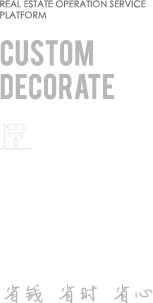
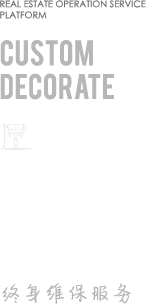
定制流程 定制流程

diff --git a/css/main.css b/css/main.css
@@ -1,1 +1,1 @@
-.main-width{width:1200px;min-width:1200px;margin-left:auto;margin-right:auto}.ellipse{overflow:hidden;white-space:nowrap;text-overflow:ellipsis}input,button{font-size:14px}button{cursor:pointer}.select{width:100%;height:45px;position:relative;font-size:14px}.select .form-control{width:100%;height:45px;line-height:45px;border-radius:3px;-webkit-border-radius:3px;-moz-border-radius:3px;color:#7f85a3;padding:0 40px 0 12px;box-shadow:inset 0 1px 3px 0 rgba(127,133,163,0.53);-webkit-box-shadow:inset 0 1px 3px 0 rgba(127,133,163,0.53);-moz-box-shadow:inset 0 1px 3px 0 rgba(127,133,163,0.53);background:#eff2f9;background:url("../images/icon/select_ico.png") right 20px center no-repeat,-webkit-gradient(linear, left top, left bottom, from(#eff2f9), to(#dbe0ed));background:url("../images/icon/select_ico.png") right 20px center no-repeat,linear-gradient(to bottom, #eff2f9, #dbe0ed)}.select .select-box{position:relative;width:100%}.select .select-box ul{background:#fff;display:none;border-bottom:1px solid #c3c9d8}.select .select-box ul li{width:100%;height:auto;line-height:20px;border-top:1px solid #c3c9d8;color:#7f85a3;padding:10px 12px;cursor:pointer}.select .select-box ul li:hover{background:#eff2f9;color:#7f85a3;border-top-color:#c3c9d8}.select .select-box:hover ul{display:block}.map-wrap{width:1200px;min-width:1200px;margin-left:auto;margin-right:auto;margin-top:78px;padding-left:40px;display:block}.map-wrap .map-box{text-align:center;float:left;font-size:16px;margin-right:75px}.map-wrap .map-box .img{width:120px;height:120px}.map-wrap .map-box .title1{margin-top:20px;color:#2b314d}.map-wrap .map-box .title2{color:#c3c9d8;margin-top:5px;font-size:12px}.map-wrap .map4{width:335px;height:202px;line-height:202px;border:1px solid #c3c9d8;text-align:center}.map-wrap .map4 .img{width:305px;height:172px}.title-wrap{text-align:center;margin-top:80px;width:1200px;min-width:1200px;margin-left:auto;margin-right:auto}.title-wrap .hr-line{width:452px;height:3px;border-top:solid 1px #c3cad8;margin-top:31px}.title-wrap .tit{width:294px}.title-wrap .tit .title{font-size:30px;color:#2b314d;font-weight:bold}.title-wrap .tit .tit{font-size:14px;color:#7f85a3;margin-top:6px}.link-more{display:block;margin-top:40px;color:#7f85a3;width:1200px;min-width:1200px;margin-left:auto;margin-right:auto;height:43px;line-height:43px;background:#eff2f9;text-align:center}.link-more:hover{box-shadow:0 1px 3px 0 rgba(127,133,163,0.6) inset;-moz-box-shadow:0 1px 3px 0 rgba(127,133,163,0.6) inset;-webkit-box-shadow:0 1px 3px 0 rgba(127,133,163,0.6) inset;text-decoration:none;transition:All .3s ease-in-out;-webkit-transition:All .3s ease-in-out;-moz-transition:All .3s ease-in-out;-o-transition:All .3s ease-in-out}.dz-wrap{width:1200px;min-width:1200px;margin-left:auto;margin-right:auto}.dz-wrap .dz-house-container{width:1220px}.dz-wrap .dz-house-list{width:1200px;height:445px;display:block;float:left;margin-top:40px;border:1px solid #c3c9d8;position:relative;margin-right:20px}.dz-wrap .dz-house-list:hover{border-color:#fd5b5f;box-shadow:0 8px 8px #e8e8e8;-moz-box-shadow:0 8px 8px #e8e8e8;-webkit-box-shadow:0 8px 8px #e8e8e8;transition:All .3s ease-in-out;-webkit-transition:All .3s ease-in-out;-moz-transition:All .3s ease-in-out;-o-transition:All .3s ease-in-out}.dz-wrap .dz-house-list .dz-left-box{width:650px;height:365px;margin:40px 0 0 40px;overflow:hidden;position:relative}.dz-wrap .dz-house-list .dz-left-box .img{width:100%;height:100%;overflow:hidden}.dz-wrap .dz-house-list .dz-right-box{width:442px;height:365px;margin:40px 40px 0 0}.dz-wrap .dz-house-list .dz-right-box .dz-title{width:100%;height:40px;font-size:18px;color:#2b314d;overflow:hidden;white-space:nowrap;text-overflow:ellipsis}.dz-wrap .dz-house-list .dz-right-box .dz-hr{width:235px;height:22px;border-bottom:1px solid #dae0ec;margin:0 auto;margin-bottom:22px;text-align:center}.dz-wrap .dz-house-list .dz-right-box .dz-hr .hr-txt{width:112px;height:22px;line-height:22px;font-size:14px;font-weight:bold;color:#8085a5;background:#fff;margin:0 auto;position:relative;top:11px}.dz-wrap .dz-house-list .dz-right-box .text-box{height:160px;overflow:hidden}.dz-wrap .dz-house-list .dz-right-box .text-box .text{width:100%;height:40px;line-height:40px;padding:0 15px;color:#7f85a3;overflow:hidden;white-space:nowrap;text-overflow:ellipsis;background:#eff2f9;border-bottom:1px solid #fff}.dz-wrap .dz-house-list .dz-right-box .text-box .text .ml15{margin-right:15px}.dz-wrap .dz-house-list .dz-right-box .desc-list{margin-bottom:16px;width:100%;height:40px;overflow:hidden}.dz-wrap .dz-house-list .dz-right-box .desc-list span{float:left;color:#58a4e8;font-size:12px;display:block;height:29px;line-height:27px;padding:0 10px;margin-right:10px;border:1px solid #58a4e8;border-radius:4px;-webkit-border-radius:4px;-moz-border-radius:4px}.dz-wrap .dz-house-list .dz-right-box .bottom-box{padding-left:10px;width:268px;height:61px;line-height:61px;color:#7f85a3;font-size:12px;margin-top:11px}.dz-wrap .dz-house-list .dz-right-box .bottom-box .box-left{width:122px;height:61px}.dz-wrap .dz-house-list .dz-right-box .bottom-box .icon{display:inline-block;width:25px;height:100%;margin-right:5px;float:left}.dz-wrap .dz-house-list .dz-right-box .bottom-box .icon.address{background:url("../images/icon/main_ico1.png") left center no-repeat;background-size:100% auto}.dz-wrap .dz-house-list .dz-right-box .bottom-box .icon.thumbs{background:url("../images/icon/main_ico2.png") left center no-repeat;background-size:100% auto}.dz-wrap .dz-house-list .dz-right-box .bottom-box .txt{float:left;display:block;overflow:hidden;white-space:nowrap;text-overflow:ellipsis}.dz-wrap .dz-house-list .dz-right-box .black{color:#2b314d}.dz-wrap .dz-house-list .dz-right-box .h-btn{width:173px;height:46px;line-height:46px;display:block;background:#fd5b5f;color:#fff;text-align:center;border-radius:3px;-webkit-border-radius:3px;-moz-border-radius:3px;border:0}.dz-wrap .dz-house-list .dz-right-box .h-btn:hover{text-decoration:none;background:#ff787b;color:#fff}.dz-wrap .dz-house-list .dz-right-box .h-btn:active{text-decoration:none;background:#dc4144;box-shadow:0 1px 3px #5b0505 inset,0 3px 0 #fff;-moz-box-shadow:0 1px 3px #5b0505 inset,0 3px 0 #fff;-webkit-box-shadow:0 1px 3px #5b0505 inset,0 3px 0 #fff}.mark-icon{display:block;width:120px;height:120px;position:absolute;top:15px;right:15px;z-index:999}.mark-icon.mark0{background:url("../images/icon/threshold.png") no-repeat 100% 100%}.mark-icon.mark1{background:url("../images/icon/hmask0.png") no-repeat 100% 100%}.mark-icon.mark2{background:url("../images/icon/hmask2.png") no-repeat 100% 100%}.mark-icon.mark3{background:url("../images/icon/hmask3.png") no-repeat 100% 100%}.mark-icon.mark4{background:url("../images/icon/hmask5.png") no-repeat 100% 100%}.mark-icon.mark5{background:url("../images/icon/hmask4.png") no-repeat 100% 100%}.message-wrap{width:1200px;min-width:1200px;margin-left:auto;margin-right:auto;margin-top:68px;margin-bottom:132px}.message-wrap .left-box{width:638px;height:auto}.message-wrap .right-box{width:465px;height:auto}.message-wrap .title{width:100%;height:64px;line-height:64px}.message-wrap .title.border-b{border-bottom:1px solid #eff2f9}.message-wrap .title .tit{color:#2b314d;font-size:18px}.message-wrap .title .article-more{color:#7f85a3;font-size:12px;width:75px;height:25px;line-height:25px;border:1px solid transparent;border-radius:100px;-webkit-border-radius:100px;-moz-border-radius:100px;margin-top:19px;padding:0 12px;background:url("../images/icon/more_arr.png") right 6px center no-repeat}.message-wrap .title .article-more:hover{background-color:#eff2f9;border:1px solid #c3c9d8;text-decoration:none;transition:All .3s ease-in-out;-webkit-transition:All .3s ease-in-out;-moz-transition:All .3s ease-in-out;-o-transition:All .3s ease-in-out}.message-wrap .msg-list{overflow:hidden;width:100%;height:260px}.message-wrap .msg-list a{display:block}.message-wrap .msg-list .tit{display:block;width:70%;overflow:hidden;white-space:nowrap;text-overflow:ellipsis;font-size:16px;color:#2b314d}.message-wrap .msg-list .tit:hover{text-decoration:underline}.message-wrap .msg-list .day{font-size:14px;color:#7f85a3}.message-wrap .msg-list.list1 li{width:100%;height:64px;line-height:64px;border-bottom:1px solid #eff2f9}.message-wrap .msg-list.list2 li{width:100%;height:65px;line-height:64px;border-bottom:1px solid #dbe0ed;padding:0 23px}.message-wrap .msg-list.list2 li:hover{background:#eff2f9;transition:All .3s ease-in-out;-webkit-transition:All .3s ease-in-out;-moz-transition:All .3s ease-in-out;-o-transition:All .3s ease-in-out}.message-wrap .msg-list.list2.border{border:1px solid #dbe0ed;border-radius:10px;-webkit-border-radius:10px;-moz-border-radius:10px}.contract{background:#fff;padding-bottom:50px;line-height:30px;color:#4c5374;overflow:hidden;user-select:none;-moz-user-select:none;-ms-user-select:none;-webkit-user-select:none}.contract .h1{margin-top:85px;font-size:35px;font-weight:500;margin-bottom:15px;text-align:center;width:100%}.contract .date{font-size:12px;width:auto;height:20px;line-height:20px;text-align:center;color:#7f85a3}.contract .contont{margin-top:25px;line-height:30px;padding-left:60px;padding-right:60px;overflow:hidden}.about_bar{width:100%;height:450px;background:url("../images/about/about_img.jpg") center no-repeat}.about_content{width:100%;height:auto}.about_content .tit{width:980px;height:38px;background:url("../images/about/contact_tit.jpg") left top no-repeat;border-bottom:1px dashed #c3c9d8}.about_content .about_details{width:980px;height:159px}.about_content .about_details .details_left{width:621px;height:135px;border-right:1px dashed #c3c9d8}.about_content .about_details .details_left .phone{width:100%;height:20px;line-height:20px;text-indent:30px;background:url("../images/about/icon_phone.jpg") left center no-repeat}.about_content .about_details .details_left .nane{width:100%;height:20px;line-height:20px;text-indent:30px;background:url("../images/about/icon_nane.jpg") left center no-repeat}.about_content .about_details .details_left .add{width:100%;height:20px;line-height:20px;text-indent:30px;background:url("../images/about/icon_add.jpg") left center no-repeat}.about_content .about_details .details_right{width:358px;height:135px;text-align:center}.about_content .about_details .details_right img{width:105px;height:105px}.about_content .add_map{width:980px;height:auto}.about_content .add_map label{max-width:500px}.house-type{width:1200px;min-width:1200px;margin-left:auto;margin-right:auto}.house-type .tit{color:#7f85a3;margin-top:27px}.house-type .type-list{padding-left:75px;width:100%}.house-type .type-list .type{display:block;float:left;padding:5px 25px;border:1px solid #dbe0ed;border-radius:100px;-webkit-border-radius:100px;-moz-border-radius:100px;margin-right:12px;margin-top:22px}.house-type .type-list .type.active{border-color:#58a4e8;color:#58a4e8}.logo2{display:block;position:absolute;z-index:9;top:40px;width:1016px;height:auto;left:0;right:0;margin:0 auto}.my-pagination{width:1068px;height:365px;position:absolute;top:50%;left:0;right:0;z-index:10;margin:-200px auto 0;background:url("../images/main/title.png") center top no-repeat;padding-top:81px;background-size:623px 62px}.my-pagination .page{transition:All .2s ease-in-out;-webkit-transition:All .2s ease-in-out;-moz-transition:All .2s ease-in-out;-o-transition:All .2s ease-in-out;display:block;width:215px;height:365px;overflow:hidden;margin:0 26px;float:left;background-color:#000;background-color:rgba(0,0,0,0.8);-webkit-background-color:rgba(0,0,0,0.8);-moz-background-color:rgba(0,0,0,0.8);background-position:26px center;background-repeat:no-repeat}.my-pagination .page.active{background-color:#d21211;background-color:rgba(210,18,17,0.8) !important;-webkit-background-color:rgba(210,18,17,0.8) !important;-moz-background-color:rgba(210,18,17,0.8) !important;box-shadow:0 0 30px rgba(0,0,0,0.8);-moz-box-shadow:0 0 30px rgba(0,0,0,0.8);-webkit-box-shadow:0 0 30px rgba(0,0,0,0.8);-webkit-transform:translate3d(0, -6px, 0);transform:translate3d(0, -6px, 0)}.my-pagination .page.p1{background-image:url("../images/main/bg1.png")}.my-pagination .page.p2{background-image:url("../images/main/bg2.png")}.my-pagination .page.p3{background-image:url("../images/main/bg3.png")}.my-pagination .page.p4{background-image:url("../images/main/bg4.png")}.my-pagination .page .txt{font-size:30px;color:#fff;margin-top:203px;margin-left:22px}.swiper-bottom{width:100%;height:68px;line-height:68px;position:absolute;bottom:0;left:0;z-index:10;background:#000;background-color:rgba(0,0,0,0.8);-webkit-background-color:rgba(0,0,0,0.8);-moz-background-color:rgba(0,0,0,0.8);color:#fff;text-align:center;min-width:1200px}
+.main-width{width:1200px;min-width:1200px;margin-left:auto;margin-right:auto}.ellipse{overflow:hidden;white-space:nowrap;text-overflow:ellipsis}input,button{font-size:14px}button{cursor:pointer}.select{width:100%;height:45px;position:relative;font-size:14px}.select .form-control{width:100%;height:45px;line-height:45px;border-radius:3px;-webkit-border-radius:3px;-moz-border-radius:3px;color:#7f85a3;padding:0 40px 0 12px;box-shadow:inset 0 1px 3px 0 rgba(127,133,163,0.53);-webkit-box-shadow:inset 0 1px 3px 0 rgba(127,133,163,0.53);-moz-box-shadow:inset 0 1px 3px 0 rgba(127,133,163,0.53);background:#eff2f9;background:url("../images/icon/select_ico.png") right 20px center no-repeat,-webkit-gradient(linear, left top, left bottom, from(#eff2f9), to(#dbe0ed));background:url("../images/icon/select_ico.png") right 20px center no-repeat,linear-gradient(to bottom, #eff2f9, #dbe0ed)}.select .select-box{position:relative;width:100%}.select .select-box ul{background:#fff;display:none;border-bottom:1px solid #c3c9d8}.select .select-box ul li{width:100%;height:auto;line-height:20px;border-top:1px solid #c3c9d8;color:#7f85a3;padding:10px 12px;cursor:pointer}.select .select-box ul li:hover{background:#eff2f9;color:#7f85a3;border-top-color:#c3c9d8}.select .select-box:hover ul{display:block}.map-wrap{width:1200px;min-width:1200px;margin-left:auto;margin-right:auto;margin-top:78px;padding-left:40px;display:block}.map-wrap .map-box{text-align:center;float:left;font-size:16px;margin-right:75px}.map-wrap .map-box .img{width:120px;height:120px}.map-wrap .map-box .title1{margin-top:20px;color:#2b314d}.map-wrap .map-box .title2{color:#c3c9d8;margin-top:5px;font-size:12px}.map-wrap .map4{width:335px;height:202px;line-height:202px;border:1px solid #c3c9d8;text-align:center}.map-wrap .map4 .img{width:305px;height:172px}.title-wrap{text-align:center;margin-top:80px;width:1200px;min-width:1200px;margin-left:auto;margin-right:auto}.title-wrap .hr-line{width:452px;height:3px;border-top:solid 1px #c3cad8;margin-top:31px}.title-wrap .tit{width:294px}.title-wrap .tit .title{font-size:30px;color:#2b314d;font-weight:bold}.title-wrap .tit .tit{font-size:14px;color:#7f85a3;margin-top:6px}.link-more{display:block;margin-top:40px;color:#7f85a3;width:1200px;min-width:1200px;margin-left:auto;margin-right:auto;height:43px;line-height:43px;background:#eff2f9;text-align:center}.link-more:hover{box-shadow:0 1px 3px 0 rgba(127,133,163,0.6) inset;-moz-box-shadow:0 1px 3px 0 rgba(127,133,163,0.6) inset;-webkit-box-shadow:0 1px 3px 0 rgba(127,133,163,0.6) inset;text-decoration:none;transition:All .3s ease-in-out;-webkit-transition:All .3s ease-in-out;-moz-transition:All .3s ease-in-out;-o-transition:All .3s ease-in-out}.dz-wrap{width:1200px;min-width:1200px;margin-left:auto;margin-right:auto}.dz-wrap .dz-house-container{width:1220px}.dz-wrap .dz-house-list{width:1200px;height:445px;display:block;float:left;margin-top:40px;border:1px solid #c3c9d8;position:relative;margin-right:20px}.dz-wrap .dz-house-list:hover{border-color:#fd5b5f;box-shadow:0 8px 8px #e8e8e8;-moz-box-shadow:0 8px 8px #e8e8e8;-webkit-box-shadow:0 8px 8px #e8e8e8;transition:All .3s ease-in-out;-webkit-transition:All .3s ease-in-out;-moz-transition:All .3s ease-in-out;-o-transition:All .3s ease-in-out}.dz-wrap .dz-house-list .dz-left-box{width:650px;height:365px;margin:40px 0 0 40px;overflow:hidden;position:relative}.dz-wrap .dz-house-list .dz-left-box .img{width:100%;height:100%;overflow:hidden}.dz-wrap .dz-house-list .dz-right-box{width:442px;height:365px;margin:40px 40px 0 0}.dz-wrap .dz-house-list .dz-right-box .dz-title{width:100%;height:40px;font-size:18px;color:#2b314d;overflow:hidden;white-space:nowrap;text-overflow:ellipsis}.dz-wrap .dz-house-list .dz-right-box .dz-hr{width:235px;height:22px;border-bottom:1px solid #dae0ec;margin:0 auto;margin-bottom:22px;text-align:center}.dz-wrap .dz-house-list .dz-right-box .dz-hr .hr-txt{width:112px;height:22px;line-height:22px;font-size:14px;font-weight:bold;color:#8085a5;background:#fff;margin:0 auto;position:relative;top:11px}.dz-wrap .dz-house-list .dz-right-box .text-box{height:160px;overflow:hidden}.dz-wrap .dz-house-list .dz-right-box .text-box .text{width:100%;height:40px;line-height:40px;padding:0 15px;color:#7f85a3;overflow:hidden;white-space:nowrap;text-overflow:ellipsis;background:#eff2f9;border-bottom:1px solid #fff}.dz-wrap .dz-house-list .dz-right-box .text-box .text .ml15{margin-right:15px}.dz-wrap .dz-house-list .dz-right-box .desc-list{margin-bottom:16px;width:100%;height:40px;overflow:hidden}.dz-wrap .dz-house-list .dz-right-box .desc-list span{float:left;color:#58a4e8;font-size:12px;display:block;height:29px;line-height:27px;padding:0 10px;margin-right:10px;border:1px solid #58a4e8;border-radius:4px;-webkit-border-radius:4px;-moz-border-radius:4px}.dz-wrap .dz-house-list .dz-right-box .bottom-box{padding-left:10px;width:268px;height:61px;line-height:61px;color:#7f85a3;font-size:12px;margin-top:11px}.dz-wrap .dz-house-list .dz-right-box .bottom-box .box-left{width:122px;height:61px}.dz-wrap .dz-house-list .dz-right-box .bottom-box .icon{display:inline-block;width:25px;height:100%;margin-right:5px;float:left}.dz-wrap .dz-house-list .dz-right-box .bottom-box .icon.address{background:url("../images/icon/main_ico1.png") left center no-repeat;background-size:100% auto}.dz-wrap .dz-house-list .dz-right-box .bottom-box .icon.thumbs{background:url("../images/icon/main_ico2.png") left center no-repeat;background-size:100% auto}.dz-wrap .dz-house-list .dz-right-box .bottom-box .txt{float:left;display:block;overflow:hidden;white-space:nowrap;text-overflow:ellipsis}.dz-wrap .dz-house-list .dz-right-box .black{color:#2b314d}.dz-wrap .dz-house-list .dz-right-box .h-btn{width:173px;height:46px;line-height:46px;display:block;background:#fd5b5f;color:#fff;text-align:center;border-radius:3px;-webkit-border-radius:3px;-moz-border-radius:3px;border:0}.dz-wrap .dz-house-list .dz-right-box .h-btn:hover{text-decoration:none;background:#ff787b;color:#fff}.dz-wrap .dz-house-list .dz-right-box .h-btn:active{text-decoration:none;background:#dc4144;box-shadow:0 1px 3px #5b0505 inset,0 3px 0 #fff;-moz-box-shadow:0 1px 3px #5b0505 inset,0 3px 0 #fff;-webkit-box-shadow:0 1px 3px #5b0505 inset,0 3px 0 #fff}.mark-icon{display:block;width:120px;height:120px;position:absolute;top:15px;right:15px;z-index:999}.mark-icon.mark0{background:url("../images/icon/threshold.png") no-repeat 100% 100%}.mark-icon.mark1{background:url("../images/icon/hmask0.png") no-repeat 100% 100%}.mark-icon.mark2{background:url("../images/icon/hmask2.png") no-repeat 100% 100%}.mark-icon.mark3{background:url("../images/icon/hmask3.png") no-repeat 100% 100%}.mark-icon.mark4{background:url("../images/icon/hmask5.png") no-repeat 100% 100%}.mark-icon.mark5{background:url("../images/icon/hmask4.png") no-repeat 100% 100%}.message-wrap{width:1200px;min-width:1200px;margin-left:auto;margin-right:auto;margin-top:68px;margin-bottom:132px}.message-wrap .left-box{width:638px;height:auto}.message-wrap .right-box{width:465px;height:auto}.message-wrap .title{width:100%;height:64px;line-height:64px}.message-wrap .title.border-b{border-bottom:1px solid #eff2f9}.message-wrap .title .tit{color:#2b314d;font-size:18px}.message-wrap .title .article-more{color:#7f85a3;font-size:12px;width:75px;height:25px;line-height:25px;border:1px solid transparent;border-radius:100px;-webkit-border-radius:100px;-moz-border-radius:100px;margin-top:19px;padding:0 12px;background:url("../images/icon/more_arr.png") right 6px center no-repeat}.message-wrap .title .article-more:hover{background-color:#eff2f9;border:1px solid #c3c9d8;text-decoration:none;transition:All .3s ease-in-out;-webkit-transition:All .3s ease-in-out;-moz-transition:All .3s ease-in-out;-o-transition:All .3s ease-in-out}.message-wrap .msg-list{overflow:hidden;width:100%;height:260px}.message-wrap .msg-list a{display:block}.message-wrap .msg-list .tit{display:block;width:70%;overflow:hidden;white-space:nowrap;text-overflow:ellipsis;font-size:16px;color:#2b314d}.message-wrap .msg-list .tit:hover{text-decoration:underline}.message-wrap .msg-list .day{font-size:14px;color:#7f85a3}.message-wrap .msg-list.list1 li{width:100%;height:64px;line-height:64px;border-bottom:1px solid #eff2f9}.message-wrap .msg-list.list2 li{width:100%;height:65px;line-height:64px;border-bottom:1px solid #dbe0ed;padding:0 23px}.message-wrap .msg-list.list2 li:hover{background:#eff2f9;transition:All .3s ease-in-out;-webkit-transition:All .3s ease-in-out;-moz-transition:All .3s ease-in-out;-o-transition:All .3s ease-in-out}.message-wrap .msg-list.list2.border{border:1px solid #dbe0ed;border-radius:10px;-webkit-border-radius:10px;-moz-border-radius:10px}.contract{background:#fff;padding-bottom:50px;line-height:30px;color:#4c5374;overflow:hidden;user-select:none;-moz-user-select:none;-ms-user-select:none;-webkit-user-select:none}.contract .h1{margin-top:85px;font-size:35px;font-weight:500;margin-bottom:15px;text-align:center;width:100%}.contract .date{font-size:12px;width:auto;height:20px;line-height:20px;text-align:center;color:#7f85a3}.contract .contont{margin-top:25px;line-height:30px;padding-left:60px;padding-right:60px;overflow:hidden}.about_bar{width:100%;height:450px;background:url("../images/about/about_img.jpg") center no-repeat}.about_content{width:100%;height:auto}.about_content .tit{width:980px;height:38px;background:url("../images/about/contact_tit.jpg") left top no-repeat;border-bottom:1px dashed #c3c9d8}.about_content .about_details{width:980px;height:159px}.about_content .about_details .details_left{width:621px;height:135px;border-right:1px dashed #c3c9d8}.about_content .about_details .details_left .phone{width:100%;height:20px;line-height:20px;text-indent:30px;background:url("../images/about/icon_phone.jpg") left center no-repeat}.about_content .about_details .details_left .nane{width:100%;height:20px;line-height:20px;text-indent:30px;background:url("../images/about/icon_nane.jpg") left center no-repeat}.about_content .about_details .details_left .add{width:100%;height:20px;line-height:20px;text-indent:30px;background:url("../images/about/icon_add.jpg") left center no-repeat}.about_content .about_details .details_right{width:358px;height:135px;text-align:center}.about_content .about_details .details_right img{width:105px;height:105px}.about_content .add_map{width:980px;height:auto}.about_content .add_map label{max-width:500px}.house-type{width:1200px;min-width:1200px;margin-left:auto;margin-right:auto}.house-type .tit{color:#7f85a3;margin-top:27px}.house-type .type-list{padding-left:75px;width:100%}.house-type .type-list .type{display:block;float:left;padding:5px 25px;border:1px solid #dbe0ed;border-radius:100px;-webkit-border-radius:100px;-moz-border-radius:100px;margin-right:12px;margin-top:22px}.house-type .type-list .type.active{border-color:#58a4e8;color:#58a4e8}.logo2{display:block;position:absolute;z-index:9;top:40px;width:1016px;height:auto;left:0;right:0;margin:0 auto}.my-pagination{width:1068px;height:365px;position:absolute;top:50%;left:0;right:0;z-index:10;margin:-200px auto 0;background:url("../images/main/title2.png") center top no-repeat;padding-top:81px;background-size:810px 68px}.my-pagination .page{transition:All .2s ease-in-out;-webkit-transition:All .2s ease-in-out;-moz-transition:All .2s ease-in-out;-o-transition:All .2s ease-in-out;display:block;width:215px;height:365px;overflow:hidden;margin:0 26px;float:left;background-color:#000;background-color:rgba(0,0,0,0.8);-webkit-background-color:rgba(0,0,0,0.8);-moz-background-color:rgba(0,0,0,0.8);background-position:26px center;background-repeat:no-repeat}.my-pagination .page.active{background-color:#d21211;background-color:rgba(210,18,17,0.8) !important;-webkit-background-color:rgba(210,18,17,0.8) !important;-moz-background-color:rgba(210,18,17,0.8) !important;box-shadow:0 0 30px rgba(0,0,0,0.8);-moz-box-shadow:0 0 30px rgba(0,0,0,0.8);-webkit-box-shadow:0 0 30px rgba(0,0,0,0.8);-webkit-transform:translate3d(0, -6px, 0);transform:translate3d(0, -6px, 0)}.my-pagination .page.p1{background-image:url("../images/main/bg1.png")}.my-pagination .page.p2{background-image:url("../images/main/bg2.png")}.my-pagination .page.p3{background-image:url("../images/main/bg3.png")}.my-pagination .page.p4{background-image:url("../images/main/bg4.png")}.my-pagination .page .txt{font-size:30px;color:#fff;margin-top:203px;margin-left:22px}.swiper-bottom{width:100%;height:68px;line-height:68px;position:absolute;bottom:0;left:0;z-index:10;background:#000;background-color:rgba(0,0,0,0.8);-webkit-background-color:rgba(0,0,0,0.8);-moz-background-color:rgba(0,0,0,0.8);color:#fff;text-align:center;min-width:1200px}

diff --git a/css/main.less b/css/main.less
@@ -547,9 +547,9 @@ mark4:签约成功
   right:0;
   z-index:10;
   margin:-200px auto 0;
-  background: url("../images/main/title.png") center top no-repeat;
+  background: url("../images/main/title2.png") center top no-repeat;
   padding-top:81px;
-  background-size:623px 62px;
+  background-size:810px 68px;
 
   .page{.transition(.2s);display:block;.wh(215px,365px);overflow: hidden;margin:0 26px;float: left;
     background-color:#000;
